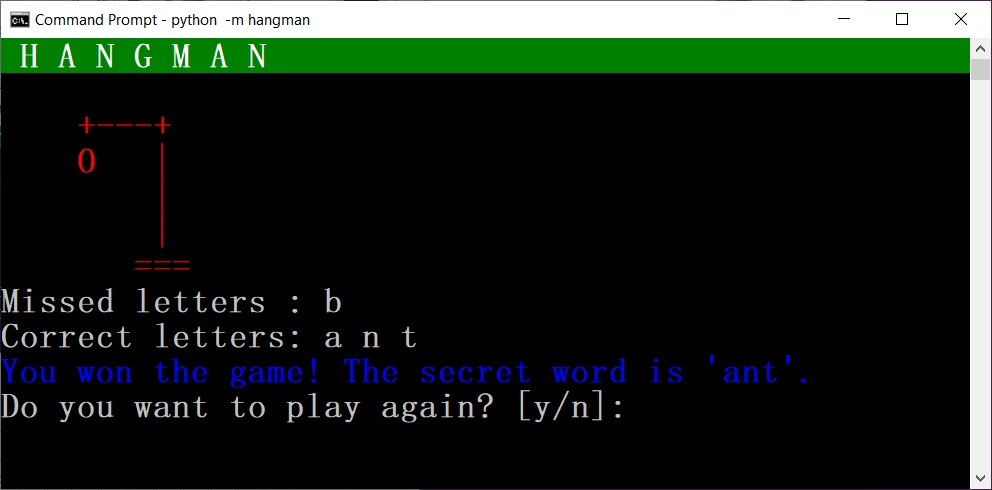
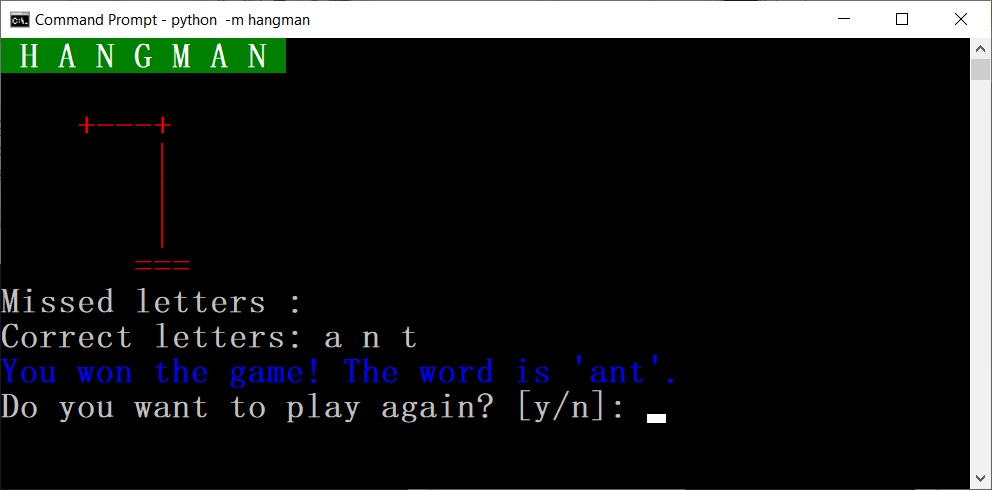
Aligned the message wording.

diff --git a/tests/test_views.py b/tests/test_views.py
@@ -107,7 +107,7 @@ class TestHangmanGameView:
             under_test: The to-be-tested HangmanGameView object from fixture.
         """
         hangman_game_data = HangmanGameData(secret_word="test")
-        expected_msg = f"You won the game! The secret word is '{hangman_game_data.secret_word}'."
+        expected_msg = f"You won the game! The word is '{hangman_game_data.secret_word}'."
         assert under_test.get_player_won_message(hangman_game_data) == expected_msg
 
     def test_get_player_lost_message_first_line(self, under_test: HangmanGameView) -> None:

diff --git a/hangman/views.py b/hangman/views.py
@@ -149,7 +149,7 @@ class HangmanGameView:
         Returns:
             str: The player won message.
         """
-        return f"You won the game! The secret word is '{hangman_game_data.secret_word}'."
+        return f"You won the game! The word is '{hangman_game_data.secret_word}'."
 
     def show_player_won(self, hangman_game_data: HangmanGameData) -> None:
         """Show player won message.
